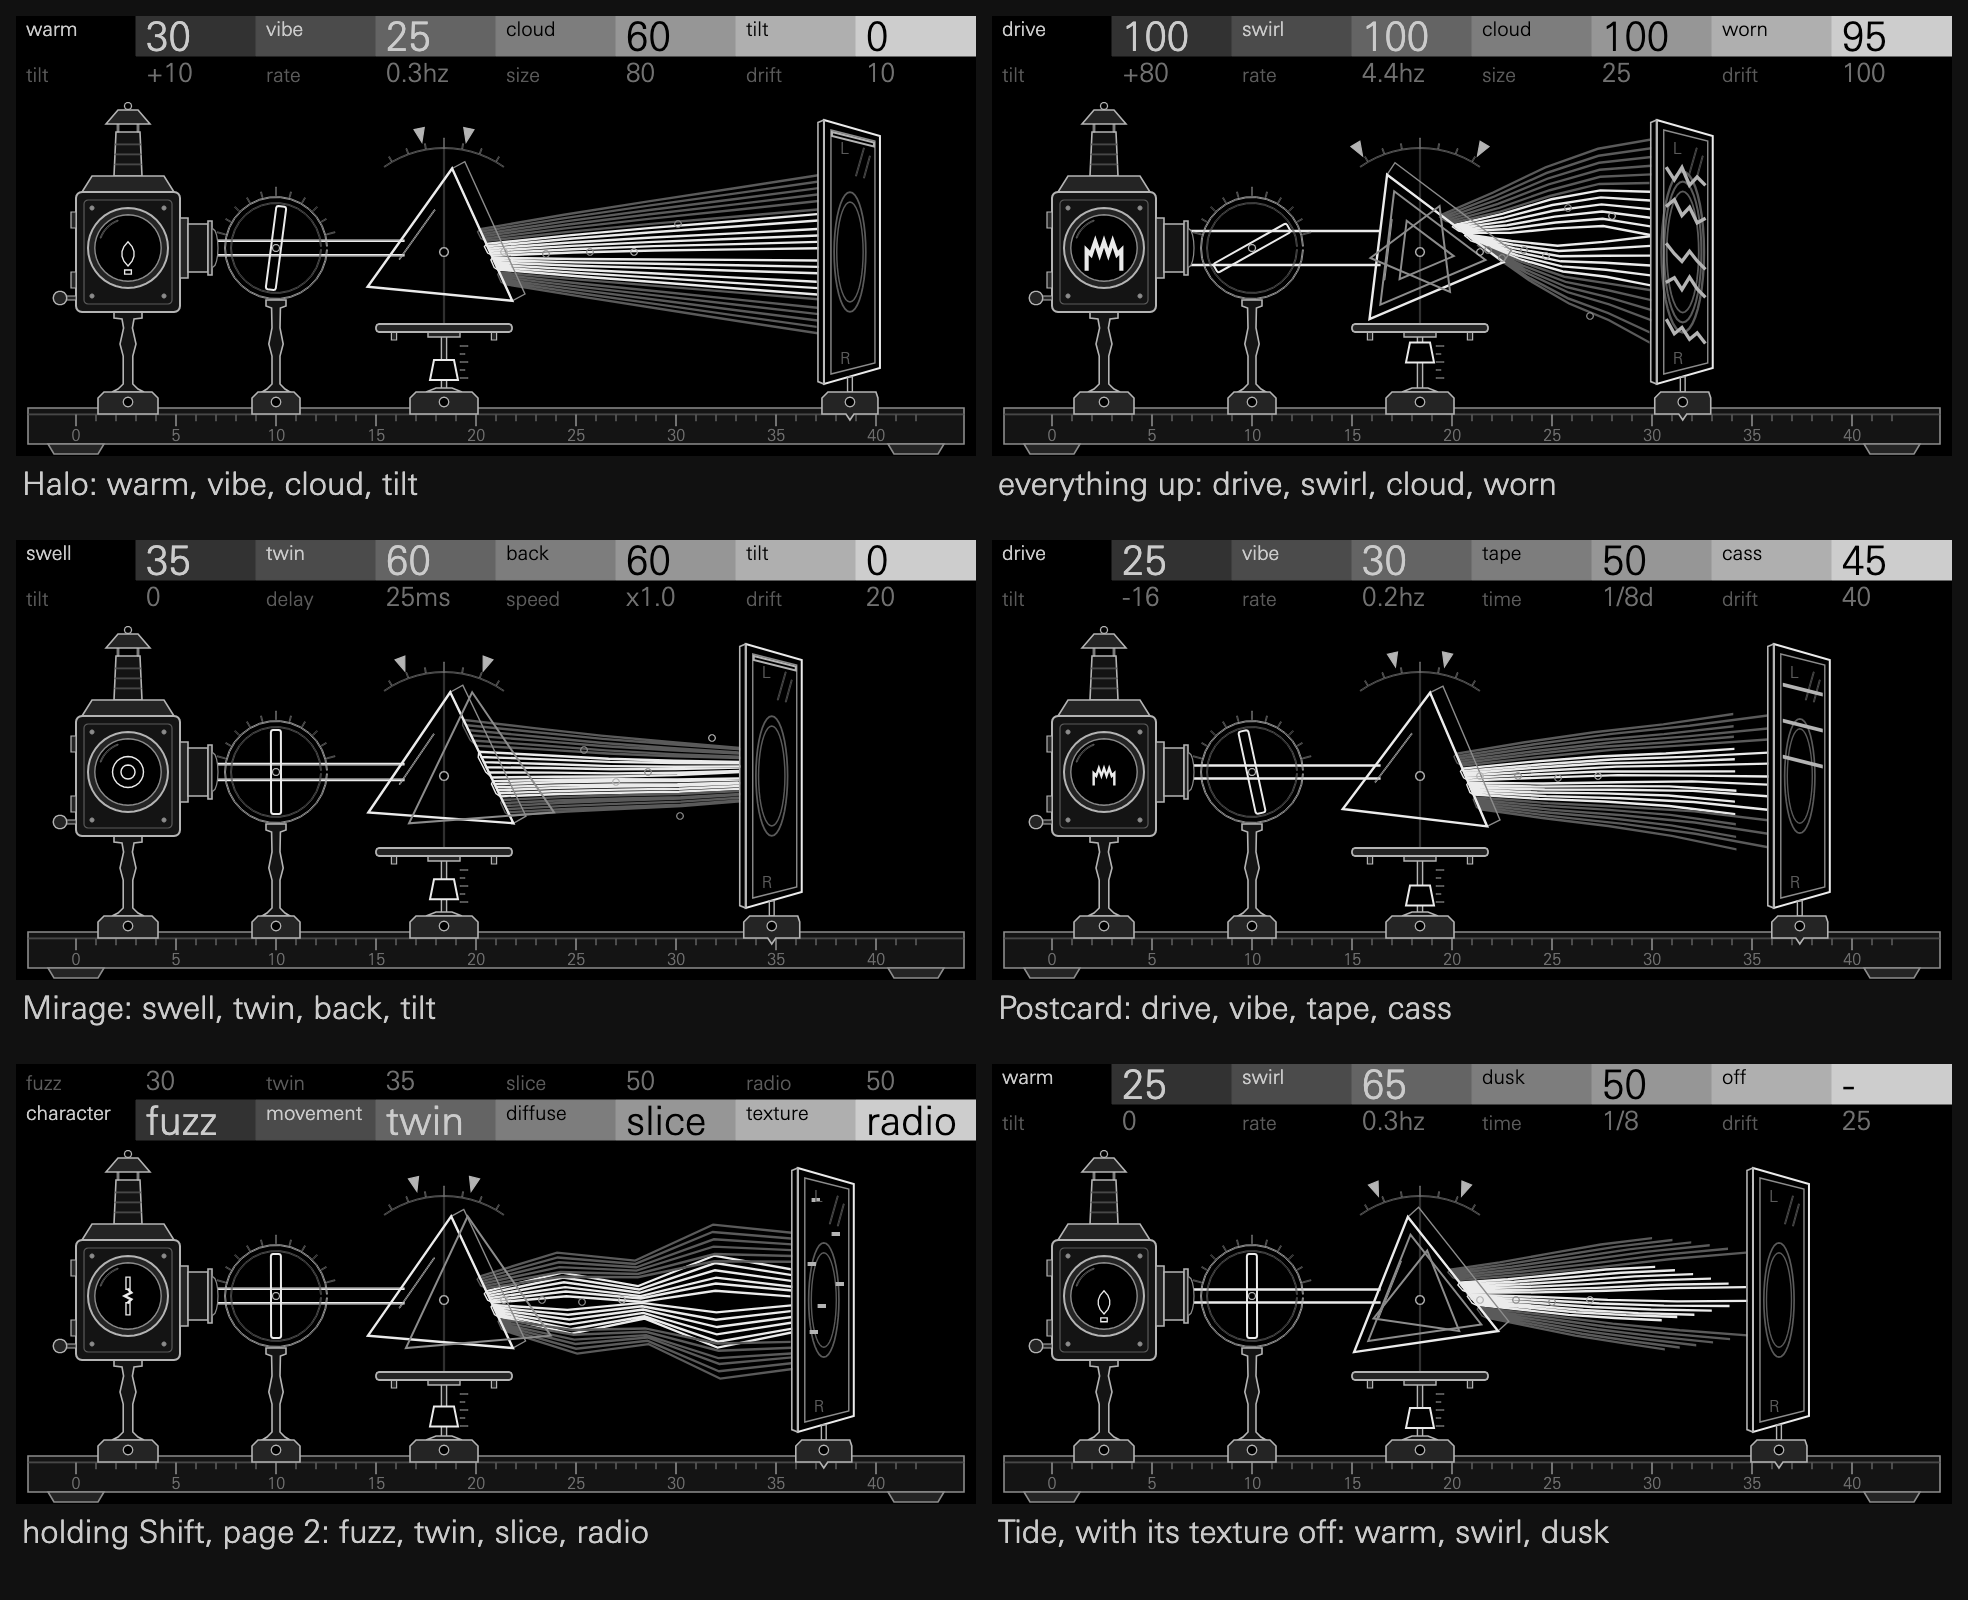
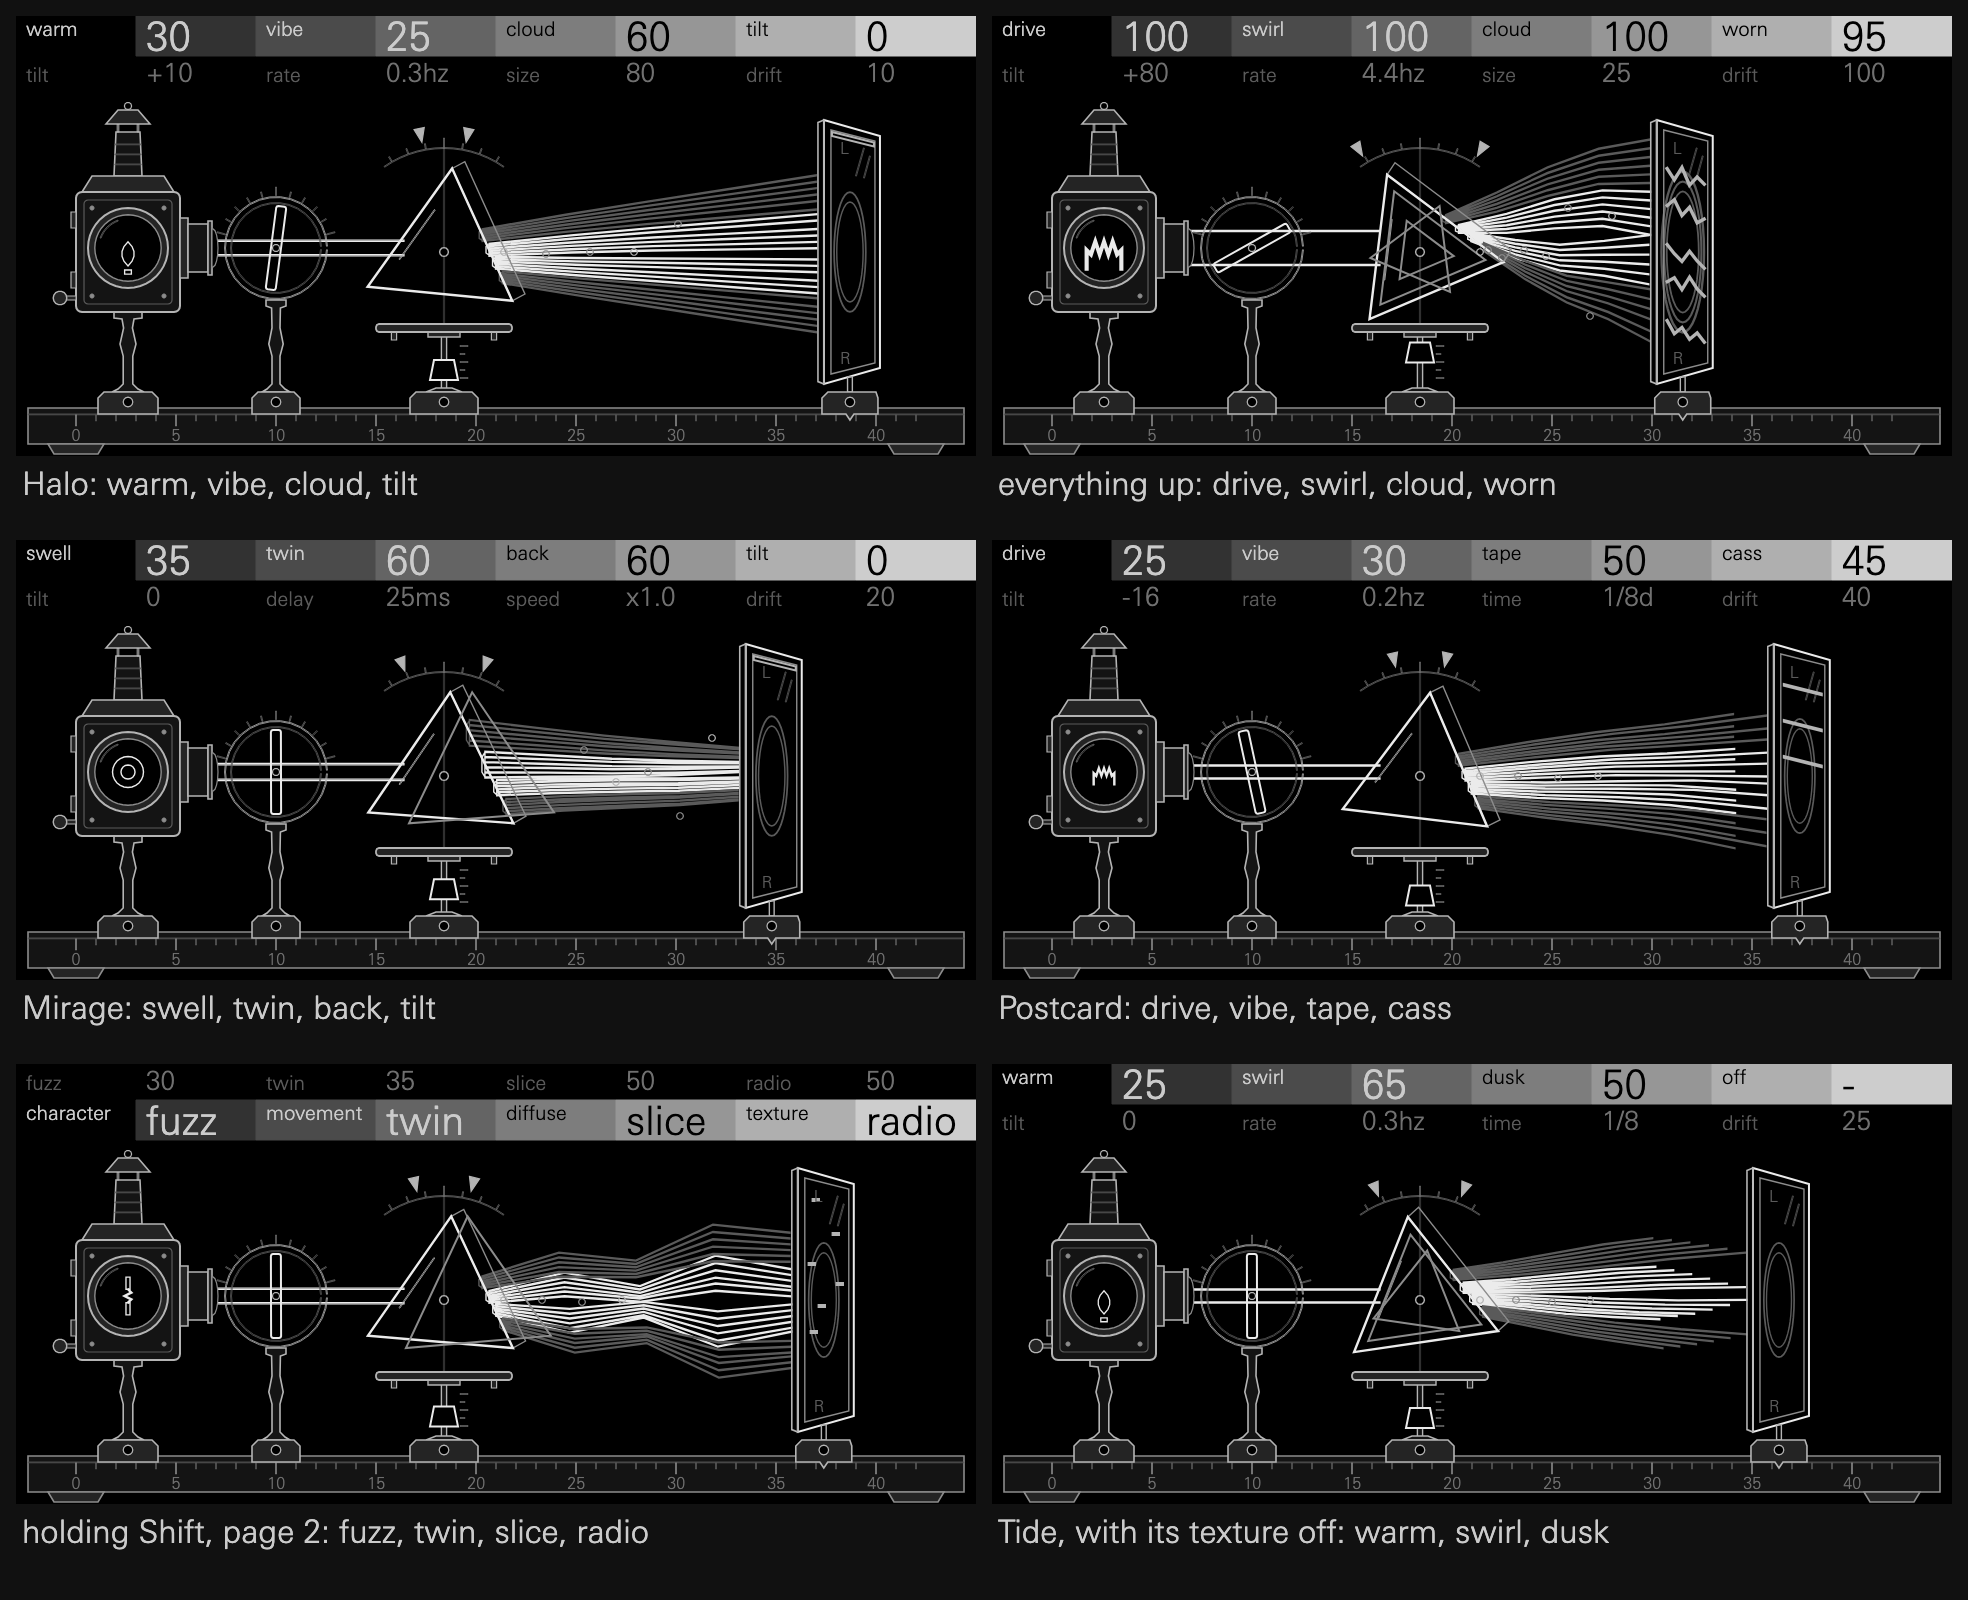
Chroma's READMEs and images for v1.7.0, its CPU still to fill in
Marked lines hold the figures to measure at the tag. The screens are redrawn from the
released rays. No machine file changes.

diff --git a/chroma/README.md b/chroma/README.md
@@ -92,9 +92,10 @@ drawn and why this one was chosen.
 
 ## CPU and memory
 
-Measured on an OP-XY at v1.4.1 with `sdk.py profile benchmark`, over three runs, with
-graphics excluded: 7.230% of the block budget on the default warm, vibe, cloud and
-tilt, and 10.76% on howl, swirl, cloud and cass with every control at full. That
+<!-- CPU: replace the two @@ figures with v1.7.0's, measured on the device, then remove this line. -->
+Measured on an OP-XY at v1.7.0 with `sdk.py profile benchmark`, over three runs, with
+graphics excluded: @@% of the block budget on the default warm, vibe, cloud and
+tilt, and @@% on howl, swirl, cloud and cass with every control at full. That
 heaviest setting is enough that a busy project may drop audio, though no one has
 heard it do so yet. Drive or fuzz in place of howl wasn't measured.
 

diff --git a/README.md b/README.md
@@ -126,8 +126,9 @@ header shows:
 | Mosaic | warm, twin, slice, tilt | 20, 40, 60, -10 | 0, 33ms, .19s, 45 |
 | Static | fuzz, trem, cloud, radio | 20, 40, 45, 30 | -10, 0.8hz, 70, 20 |
 
-**CPU,** measured on an OP-XY at v1.4.1: 7.23% of the block budget on the default
-effects, and 10.76% on howl, swirl, cloud and cass with every control at full. That
+<!-- CPU: replace the two @@ figures with v1.7.0's, measured on the device, then remove this line. -->
+**CPU,** measured on an OP-XY at v1.7.0: @@% of the block budget on the default
+effects, and @@% on howl, swirl, cloud and cass with every control at full. That
 heaviest setting is enough that a busy project may drop audio, though no one has
 heard it do so yet.
 

diff --git a/chroma/docs/visual-directions.md b/chroma/docs/visual-directions.md
@@ -89,6 +89,10 @@ control moves:
 - The rays now start on the prism's far face and follow it as it rocks.
 - Dark static bodies hide what's behind them, as Wane's do.
 
+Later, each group of rays' feet was lined up one above the other, so no outline can
+turn straight back on itself. With back, whose rays spread furthest along the face,
+that shows as short upright steps inside the prism.
+
 ![The bench as built, from the real display code](../screens.png)
 
 Every control at 0, 50 and 100 is in [controls-1x.png](controls-1x.png), and every
